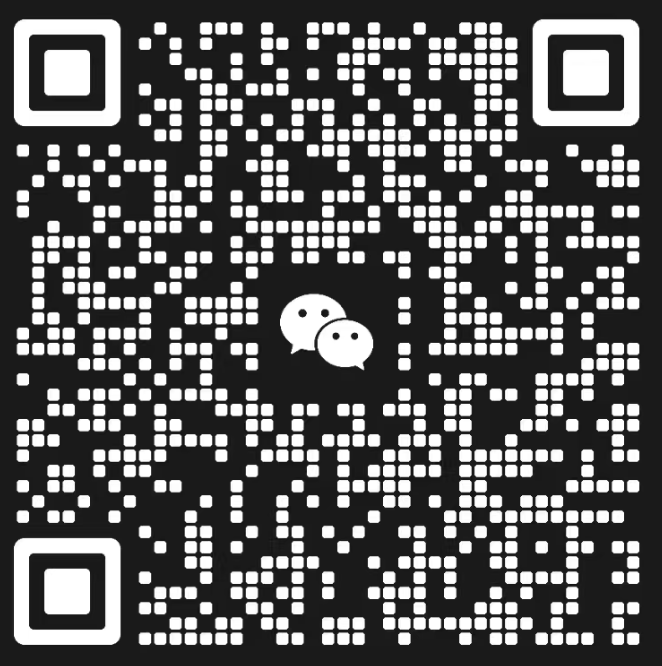
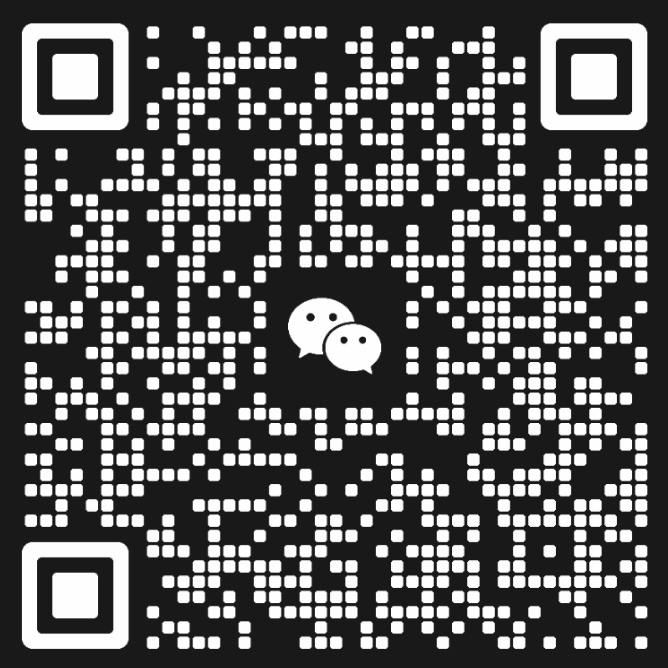
docs: update architecture and support QR codes

diff --git a/README.md b/README.md
@@ -169,20 +169,27 @@ macOS is the current reference product. Windows is an independent React/Tauri im
 ```mermaid
 flowchart LR
     subgraph macOS["macOS"]
-        MacUI["SwiftUI / AppKit workbench"] --> MacApp["Application models and services"]
-        MacApp --> MacAdapters["macOS adapters"]
+        MacViews["SwiftUI / AppKit Views"] --> MacModel["AppModel and UI models"]
+        MacModel --> MacFeatures["Application feature models"]
+        MacFeatures --> MacServices["AppServices and Swift services"]
+        MacServices --> MacRust["Typed Rust operations"]
+        MacServices --> MacPorts["Platform ports"]
+        MacPorts --> MacAdapters["macOS adapters"]
     end
 
     subgraph Shared["Shared behavior"]
+        Editor["Shared Monaco editor"]
         Contracts["JSON contracts and fixtures"] --> Core["Rust lithe-core"]
     end
 
     subgraph Windows["Windows"]
-        WinUI["React workbench"] --> WinFeatures["TypeScript features and stores"]
-        WinFeatures --> Tauri["Tauri 2 host and Windows adapters"]
+        WinUI["React workbench and feature state"] --> WinBoundary["src/platform/tauri-core.ts"]
+        WinBoundary --> Tauri["Tauri composition root and Windows adapters"]
     end
 
-    MacApp -->|"JSON C ABI"| Core
+    Editor -.-> MacViews
+    Editor -.-> WinUI
+    MacRust -->|"JSON C ABI"| Core
     Tauri -->|"Rust crate"| Core
 ```
 
@@ -299,6 +306,16 @@ See [Repository ownership and sharing boundaries](./.agents/notes/implemented/ar
     </td>
   </tr>
 </table>
+
+### ☕ Support Lithe
+
+If Lithe is useful to you, you are welcome to buy the project a cup of coffee. Every contribution will be put back into Lithe's continued development and maintenance.
+
+<p align="center">
+  <img src="./docs/assets/donation/wechat.png" width="280" alt="WeChat donation QR code">
+  <img src="./docs/assets/donation/alipay.png" width="280" alt="Alipay donation QR code">
+</p>
+<p align="center"><sub>WeChat&nbsp;&nbsp;&nbsp;&nbsp;&nbsp;&nbsp;&nbsp;&nbsp;&nbsp;&nbsp;&nbsp;&nbsp;Alipay</sub></p>
 
 ### ⭐ Special thanks
 
